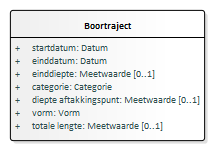
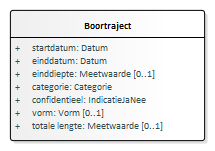
Conceptualmodel-MijnbouwconstructiesEPC-conceptueel-0.1versie27juli2020-1-20200727-20200916-170110

Changed region(s): [[0.1395, 0.6358, 0.9488, 0.7152], [0.3628, 0.7152, 0.5023, 0.7947]]

diff --git a/data/EPC-cat.msword.html b/data/EPC-cat.msword.html
@@ -15,7 +15,7 @@
    <body>
       <p>Conceptual model/Mijnbouwconstructies (EPC) - conceptueel/20200727</p>
       <p>Imvertor: 1.61.2</p>
-      <p>Model release: Conceptualmodel-MijnbouwconstructiesEPC-conceptueel-0.1versie27juli2020-1-20200727-20200916-100434</p>
+      <p>Model release: Conceptualmodel-MijnbouwconstructiesEPC-conceptueel-0.1versie27juli2020-1-20200727-20200916-170110</p>
       <hr>
       <section>
          <h1>Artikel 1 Definitie van registratieobject, entiteiten en attributen</h1>
@@ -63,7 +63,7 @@
          <section>
             <h2>Het domeinmodel</h2>
             <section id="">
-               <div class="imageinfo overview"><img src="Images/EAID_017CB205_53B6_4659_8664_F773CFA9FA2C.png" usemap="#imagemap-EAID_017CB205_53B6_4659_8664_F773CFA9FA2C" alt="Diagram "><map name="imagemap-EAID_017CB205_53B6_4659_8664_F773CFA9FA2C"><area shape="rect" alt="Gestandaardiseerde locatie" coords="522,464,760,545" href="#graph_EAID_95E39295_3080_4135_862A_30756039B864"><area shape="rect" alt="Gemeten punten" coords="306,526,452,614" href="#graph_EAID_5A1B04C2_2C34_4376_8F2B_27867C2DD65B"><area shape="rect" alt="Boortraject" coords="296,328,491,455" href="#graph_EAID_4E52826A_2252_4994_8AD0_986AD45E18C9"><area shape="rect" alt="Boorgat" coords="313,220,416,267" href="#graph_EAID_65D8EFAF_B4C4_4398_899C_9BFD5D3AF67A"><area shape="rect" alt="Mijnbouwconstructie" coords="296,39,466,156" href="#graph_EAID_69DE8D60_7E06_4b57_94CD_8338348EDAE5"><area shape="rect" alt="Registratiegeschiedenis" coords="5,31,241,220" href="#graph_EAID_8550146B_496A_40ca_BE86_AFD377E5A6D8"><area shape="rect" alt="Aangeleverde verticale positie" coords="530,186,801,315" href="#graph_EAID_A249D799_B098_49cd_98AA_DCAE0EB07DE7"><area shape="rect" alt="Aangeleverde locatie" coords="515,8,768,149" href="#graph_EAID_EDA11EEA_8FED_44be_AC04_18B58CB46F11"></map><p><b>Mijnbouwconstructies (EPC) -  overzicht</b></p>
+               <div class="imageinfo overview"><img src="Images/EAID_017CB205_53B6_4659_8664_F773CFA9FA2C.png" usemap="#imagemap-EAID_017CB205_53B6_4659_8664_F773CFA9FA2C" alt="Diagram "><map name="imagemap-EAID_017CB205_53B6_4659_8664_F773CFA9FA2C"><area shape="rect" alt="Gestandaardiseerde locatie" coords="522,464,760,545" href="#graph_EAID_95E39295_3080_4135_862A_30756039B864"><area shape="rect" alt="Gemeten punten" coords="306,526,452,614" href="#graph_EAID_5A1B04C2_2C34_4376_8F2B_27867C2DD65B"><area shape="rect" alt="Boortraject" coords="296,328,491,464" href="#graph_EAID_4E52826A_2252_4994_8AD0_986AD45E18C9"><area shape="rect" alt="Boorgat" coords="313,220,416,267" href="#graph_EAID_65D8EFAF_B4C4_4398_899C_9BFD5D3AF67A"><area shape="rect" alt="Mijnbouwconstructie" coords="296,39,466,156" href="#graph_EAID_69DE8D60_7E06_4b57_94CD_8338348EDAE5"><area shape="rect" alt="Registratiegeschiedenis" coords="5,31,241,220" href="#graph_EAID_8550146B_496A_40ca_BE86_AFD377E5A6D8"><area shape="rect" alt="Aangeleverde verticale positie" coords="530,186,801,315" href="#graph_EAID_A249D799_B098_49cd_98AA_DCAE0EB07DE7"><area shape="rect" alt="Aangeleverde locatie" coords="515,8,768,149" href="#graph_EAID_EDA11EEA_8FED_44be_AC04_18B58CB46F11"></map><p><b>Mijnbouwconstructies (EPC) -  overzicht</b></p>
                </div>
             </section>
          </section>
@@ -1260,7 +1260,7 @@
                            </tr>
                            <tr>
                               <th>Juridische status</th>
-                              <td>Authentiek</td>
+                              <td>Niet-authentiek</td>
                            </tr>
                            <tr>
                               <th>Kardinaliteit</th>
@@ -1295,9 +1295,8 @@
                               <th>Definitie</th>
                               <td>
                                  
-                                 <p>De aanduiding die aangeeft of een aangeleverd coördinaat voor de locatiebepaling van
-                                    de mijnbouwconstructie al in een eerder stadium is omgerekend naar een voor de BRO
-                                    gangbaar referentiestelsel.</p>
+                                 <p>De aanduiding die aangeeft of een aangevelerde locatie van een mijnbouwconstructie
+                                    al in een eerder stadium is omgerekend naar een voor de BRO gangbaar referentiestelsel.</p>
                                  </td>
                            </tr>
                            <tr>
@@ -2149,6 +2148,14 @@
                               <th>&nbsp;&nbsp;Eenheid</th>
                               <td>m (meter)</td>
                            </tr>
+                           <tr>
+                              <th>Regels</th>
+                              <td>
+                                 
+                                 <p>Het attribuut is aanwezig wanneer de waarde van het attribuut <em>confidentieel</em> gelijk is aan <em>nee.</em> 
+                                    In het andere geval ontbreekt het attribuut.</p>
+                                 </td>
+                           </tr>
                         </tbody>
                      </table>
                      </section><a class="anchor" id="detail_attribute_Model_Boortraject_categorie"></a><section id="detail_attribute_Model_Boortraject_categorie">
@@ -2184,8 +2191,8 @@
                            </tr>
                         </tbody>
                      </table>
-                     </section><a class="anchor" id="detail_attribute_Model_Boortraject_diepteaftakkingspunt"></a><section id="detail_attribute_Model_Boortraject_diepteaftakkingspunt">
-                     <h4>  diepte aftakkingspunt</h4>
+                     </section><a class="anchor" id="detail_attribute_Model_Boortraject_confidentieel"></a><section id="detail_attribute_Model_Boortraject_confidentieel">
+                     <h4>  confidentieel</h4>
                      
                      <table style="width: 100%;">
                         <colgroup style="width: 30%;"></colgroup>
@@ -2196,20 +2203,12 @@
                               <td>Attribuut van Boortraject</td>
                            </tr>
                            <tr>
-                              <th>Definitie</th>
-                              <td>
-                                 
-                                 <p>De langs het boorgtraject gemeten afstand vanaf het lokaal verticaal referentiepunt
-                                    tot aan het punt waarop de aftakking devieert van het primaire boortraject.</p>
-                                 </td>
-                           </tr>
-                           <tr>
                               <th>Juridische status</th>
                               <td>Authentiek</td>
                            </tr>
                            <tr>
                               <th>Kardinaliteit</th>
-                              <td>0..1</td>
+                              <td>1</td>
                            </tr>
                            <tr>
                               <th>Domein</th>
@@ -2217,14 +2216,18 @@
                            </tr>
                            <tr>
                               <th>&nbsp;&nbsp;Naam</th>
-                              <td>Meetwaarde 
-                                 </td>
+                              <td>IndicatieJaNee</td>
                            </tr>
                            <tr>
-                              <th>Regels</th>
+                              <th>&nbsp;&nbsp;Type</th>
+                              <td>Waardelijst niet uitbreidbaar</td>
+                           </tr>
+                           <tr>
+                              <th>Toelichting</th>
                               <td>
                                  
-                                 <p>De diepte aftakkingspunt heeft alleen een waarde wanneer Categorie = Afslag</p>
+                                 <p>De geometrie van het bortraject is confidentieel tot 5 jaar na het beindigen van het
+                                    boren (einddatum)</p>
                                  </td>
                            </tr>
                         </tbody>
@@ -2253,7 +2256,7 @@
                            </tr>
                            <tr>
                               <th>Kardinaliteit</th>
-                              <td>1</td>
+                              <td>0..1</td>
                            </tr>
                            <tr>
                               <th>Domein</th>
@@ -2362,7 +2365,7 @@
                               <th>Definitie</th>
                               <td>
                                  
-                                 <p>De langs het boortraject gemeten lengte ten opzichte van het voor de mijnbouwconstructie
+                                 <p>De langs het boortraject gemeten afstand ten opzichte van het voor de mijnbouwconstructie
                                     gespecificeerde lokaal verticaal referentiepunt.</p>
                                  </td>
                            </tr>
